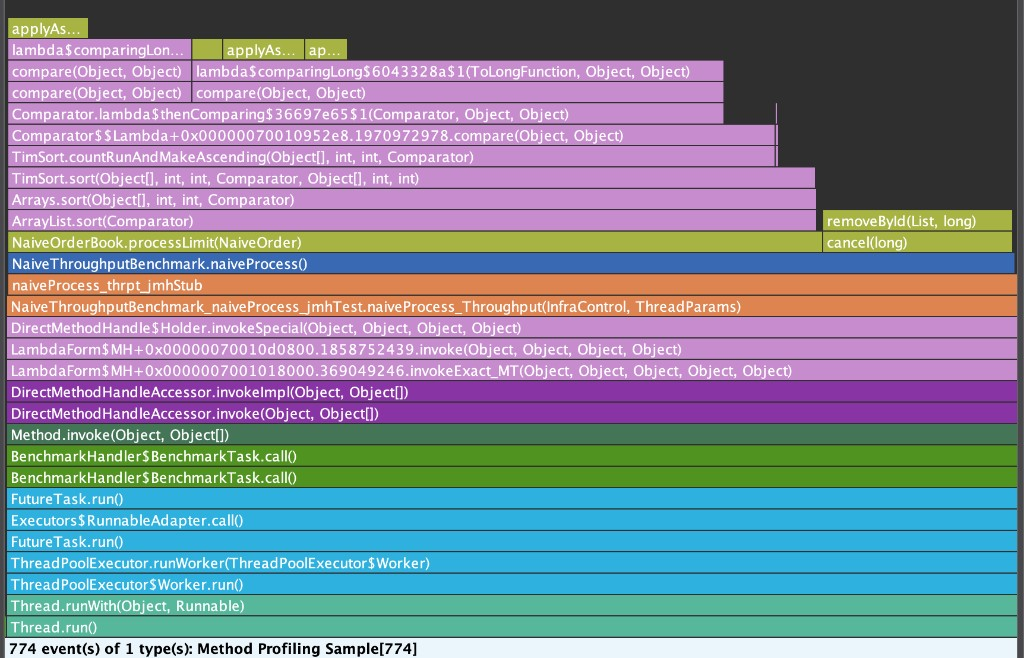
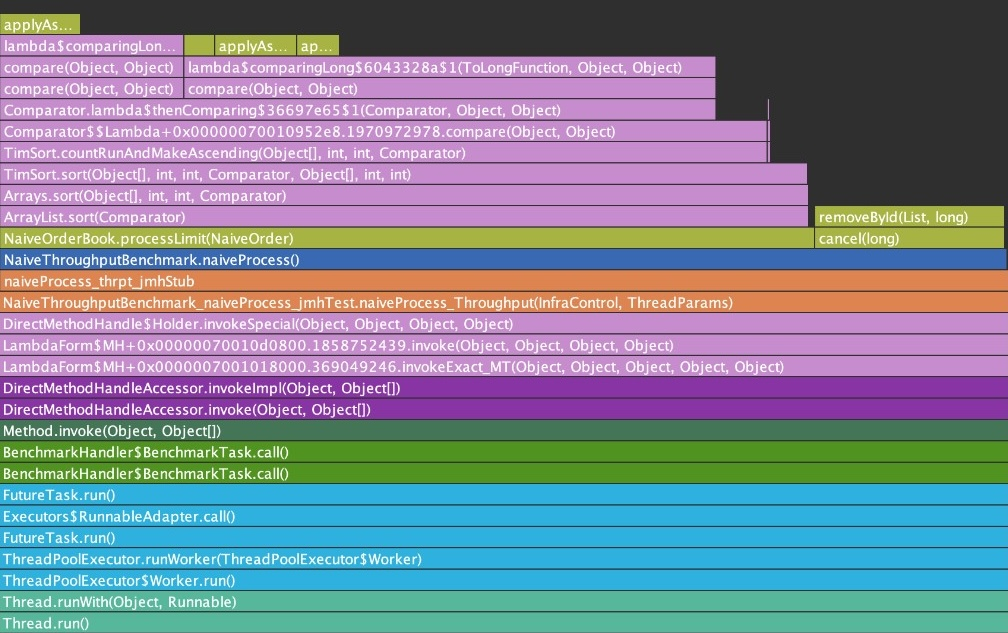
updated docs/benchmarks.md

diff --git a/docs/benchmarks.md b/docs/benchmarks.md
@@ -8,8 +8,11 @@ Each entry includes hardware, JVM flags, workload description, and raw output.
 ## Naive Baseline
 
 **Hardware:** Apple M4, MacBook Air, 16 GB RAM
+
 **JVM:** Java 21.0.5 (HotSpot 64-bit), `-XX:-RestrictContended -XX:+UseG1GC -Xmx4g`
-**Workload:** 60 % limit orders (prices ±10 ticks around mid 5000), 20 % market orders, 20 % cancel operations, 1 M pre-generated orders cycled per iteration
+
+**Workload:** 60% limit orders (prices ±10 ticks around mid 5000), 20% market orders, 20% cancel operations, 1M pre-generated orders cycled per iteration
+
 **Benchmark config:** `@Fork(1)`, `@Warmup(3 × 2 s)`, `@Measurement(5 × 3 s)`
 
 **Result:** ~71,464 ops/sec
@@ -19,36 +22,98 @@ Benchmark                               Mode  Cnt      Score       Error  Units
 NaiveThroughputBenchmark.naiveProcess  thrpt    5  71464.275 ± 35906.108  ops/s
 ```
 
-The wide confidence interval reflects the book's growing depth across iterations
-(more resting orders → deeper linear scans → decreasing throughput within a run),
-which is itself a symptom of the O(N) matching cost that Phase 3 will eliminate.
+The wide confidence interval (±35,906 ops/sec, roughly 50% of the mean) is not
+measurement noise. It is the O(N) cost of the naive implementation revealing
+itself over time. The book accumulates resting orders across iterations because
+`@Setup(Level.Iteration)` resets only the array cursor, not the book state.
+As depth grows, each insertion triggers a more expensive `ArrayList.sort()` over
+an ever-longer list, so later iterations are measurably slower than earlier ones.
+JFR confirms this: 80.8% of sampled CPU stacks passed through the sort path,
+and `TimSort.countRunAndMakeAscending` was the top-of-stack leaf in 59.0% of
+all samples. The wide interval is the signature of that degradation in the raw
+benchmark output.
+
+This behaviour is intentional and left unfixed in the naive layer. It makes the
+baseline a conservative lower bound: the Phase 3 optimized implementation will
+be measured against a book that is already under load, so the improvement ratio
+reflects real-world conditions rather than a cherry-picked shallow-book scenario.
+
+---
 
 ### JFR Hot Methods
 
-Recorded via:
 ```bash
+# Record
 java -XX:-RestrictContended -XX:+UseG1GC -Xmx4g \
-  "-XX:StartFlightRecording=filename=naive.jfr,settings=profile,dumponexit=true" \
+  "-XX:StartFlightRecording=filename=docs/profiling/naive.jfr,settings=profile,dumponexit=true" \
   -jar build/libs/lob-matching-engine-1.0-SNAPSHOT-jmh.jar \
   NaiveThroughputBenchmark -wi 3 -w 2 -i 5 -r 3 -f 0
+
+# Dump samples and analyse
+jfr print --events "jdk.ExecutionSample" docs/profiling/naive.jfr > docs/profiling/jfr_samples.txt
+python3 docs/profiling/analyse-jfr.py
+# Output: docs/profiling/jfr-analysis-report.txt
 ```
 
-772 CPU samples from the benchmark worker thread:
+756 `jdk.ExecutionSample` events from the benchmark worker thread, counted
+by script rather than estimated from flame-graph width. Percentages are
+sampled-stack shares, not exact wall-clock timings.
 
-| Rank | Method | Top-of-stack CPU % | Role |
-|------|--------|--------------------|------|
-| 1 | `java.util.TimSort.countRunAndMakeAscending` | 57.6 % | Called by `List.sort()` after every order insertion to maintain price-time order — O(N log N) per insert |
-| 2 | `NaiveOrderBook.removeById` | 18.8 % | Linear scan through the bid/ask list for cancel operations — O(N) per cancel |
-| 3 | `java.util.Collections$ReverseComparator2.compare` | 18.3 % | Comparator invoked repeatedly by TimSort for the descending-bid ordering |
+**Flamegraph (JDK Mission Control — Method Profiling, full view):**
 
-**Conclusion:** 76 % of CPU time is consumed by `TimSort` and its comparator,
-triggered by `List.sort()` after every new limit order is added to the book.
-A further 19 % is `removeById`'s O(N) linear scan for cancel operations.
-Together these account for ~95 % of all on-CPU work. The root cause is using
-an unordered `ArrayList` and re-sorting it on every mutation instead of
-maintaining a pre-ordered data structure.
+![Naive JFR flamegraph](profiling/assets/naive-jfr-flamegraph.png)
 
-**Optimization hypothesis:** A `TreeMap<Long, ArrayDeque<NaiveOrder>>` keyed
-by `priceTicks` gives O(log N) level lookup and O(1) FIFO access with no
-sort required. A `HashMap<Long, NaiveOrder>` by `orderId` gives O(1)
-cancellation lookup. Expected improvement: ~40×.
+JMC renders this bottom-up: `Thread.run()` is the root at the bottom and the
+leaf methods actually burning CPU are at the top. Reading upward from
+`NaiveThroughputBenchmark.naiveProcess()`, the frame splits at
+`NaiveOrderBook.processLimit()` into two branches:
+
+- **Wide left branch (~81% of stacks):** `ArrayList.sort()` calls `Arrays.sort()`
+  calls `TimSort.sort()` calls `TimSort.countRunAndMakeAscending()`, which fans
+  out into the comparator lambda chain at the top. `TimSort.sort` appeared in
+  609 of 756 samples (80.6% inclusive). `TimSort.countRunAndMakeAscending` was
+  the top-of-stack leaf in 446 samples (59.0% exclusive), meaning it was the
+  method directly burning CPU more than half the time.
+
+- **Narrow right branch (~18% of stacks):** `cancel()` calls `removeById()`,
+  appearing in 139 of 756 samples (18.4%). The overlap between the two branches
+  is zero — no sample contained both a sort frame and a cancel frame, so the
+  percentages can be added directly.
+
+**Exclusive sample share (top-of-stack — where CPU was directly executing):**
+
+| Rank | Method | Exclusive % | Role |
+|------|--------|-------------|------|
+| 1 | `TimSort.countRunAndMakeAscending` | 59.0% | Leaf of `List.sort()`, called after every limit order insertion — O(N log N) per insert |
+| 2 | `NaiveOrderBook.removeById` | 18.4% | Linear scan of the bid/ask list on every cancel — O(N) per cancel |
+| 3 | `Collections$ReverseComparator2.compare` | 16.5% | Comparator invoked thousands of times per sort for the descending-bid ordering |
+| 4 | `TimSort.sort` | 4.9% | Sort orchestration overhead |
+
+**Branch summary (inclusive — samples where each path was active):**
+
+| Branch | Samples | % of total |
+|--------|---------|------------|
+| Sort (TimSort / Arrays.sort / ArrayList.sort) | 611 | 80.8% |
+| Cancel (NaiveOrderBook.cancel / removeById) | 139 | 18.4% |
+| Overlap (both in same sample) | 0 | 0.0% |
+| Combined | 750 | 99.2% |
+
+**Conclusion:** 99.2% of sampled CPU stacks trace to exactly two root causes
+with zero overlap between them. The sort branch (80.8%) originates from the
+single line `bids.sort(BID_ORDER)` / `asks.sort(ASK_ORDER)` in
+`NaiveOrderBook.processLimit()`: every new resting limit order triggers a full
+re-sort of the entire list. The cancel branch (18.4%) originates from
+`removeById()` scanning the full list linearly for every cancel operation. Both
+root causes share the same underlying problem: using an unordered `ArrayList`
+and imposing order by repeated full-list mutation instead of choosing a data
+structure that maintains order structurally.
+
+**Optimization hypothesis:** A `TreeMap<Long, ArrayDeque<NaiveOrder>>` keyed by
+`priceTicks` eliminates the sort entirely. The tree maintains price order
+structurally at O(log L) insertion cost, where L is the number of distinct price
+levels (at most 21 in this workload's ±10-tick window). A
+`HashMap<Long, NaiveOrder>` by `orderId` reduces cancel lookup from O(N) to
+O(1). Given that 80.8% of sampled stacks pass through the sorting path and the
+replacement reduces that cost from O(N log N) over all resting orders to O(log L)
+over price levels, the expected improvement is 20-40x, scaling with book depth
+at measurement time.
